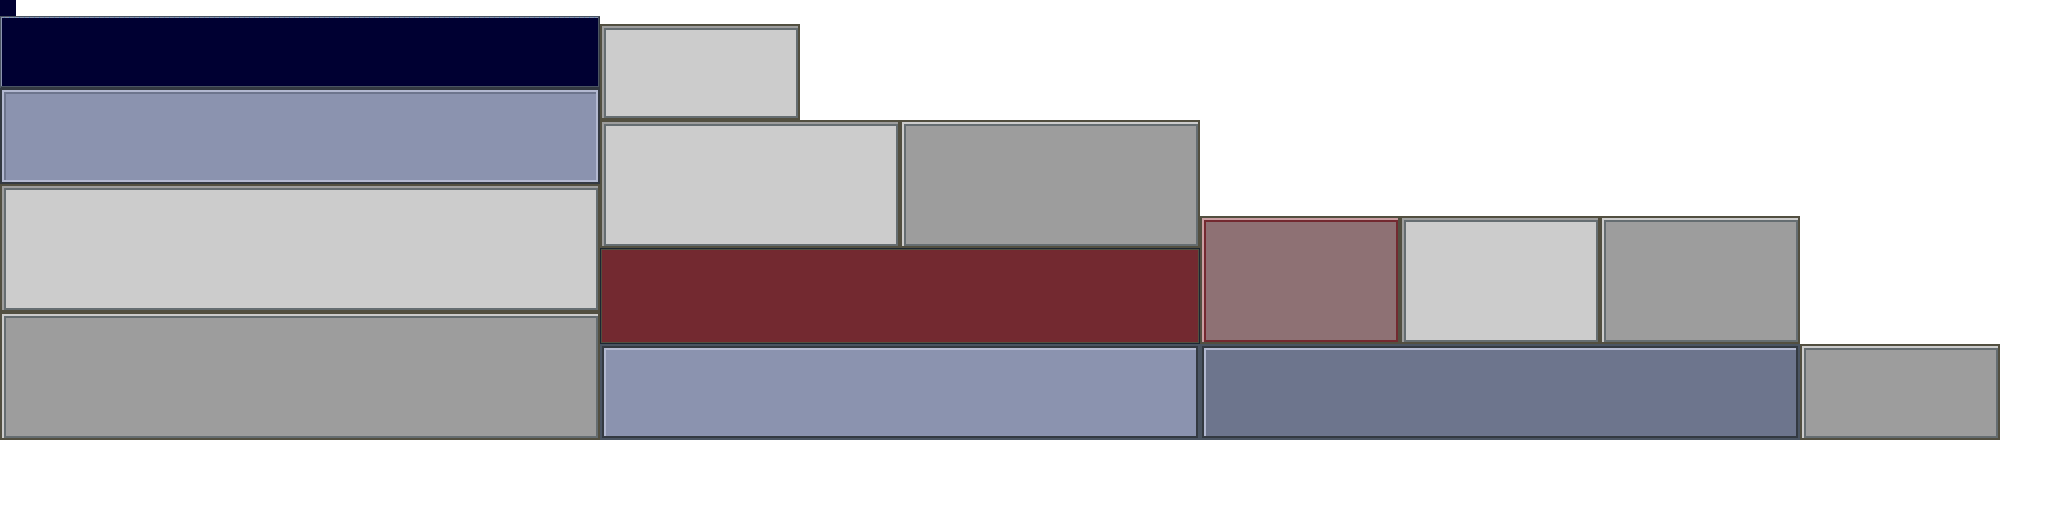
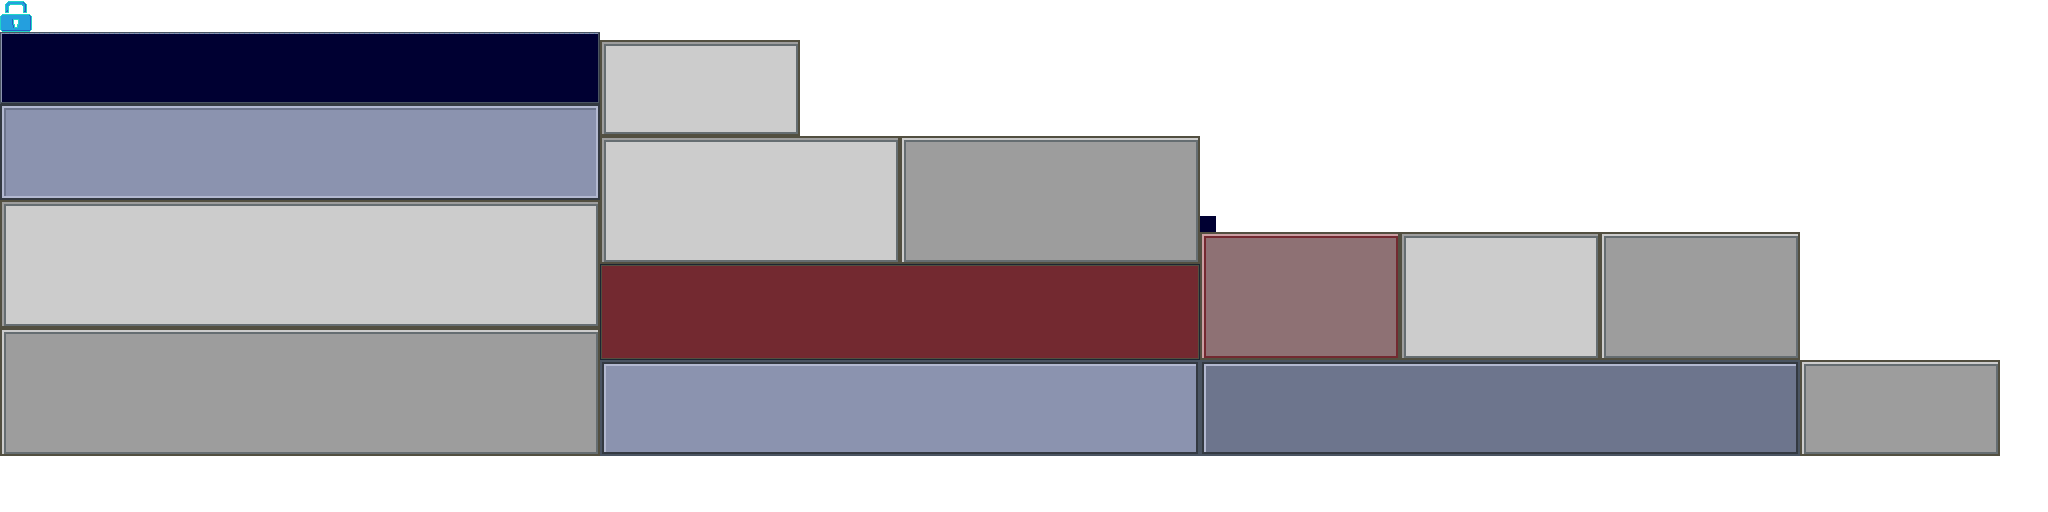
Sabacc Shifts, and Interference field for the human player

diff --git a/core/src/com/sabacc/GameScreen.java b/core/src/com/sabacc/GameScreen.java
@@ -38,6 +38,7 @@ public class GameScreen implements Screen {
         return players.get(currentPlayer);
     }
     public void nextPlayer() {
+        sabaccShift();  // Try for a shift after each player's action
         players.get(currentPlayer).updateButton(); // Update this players button
         currentPlayer = (currentPlayer + 1) % players.size;
         while (players.get(currentPlayer).folded)
@@ -70,6 +71,8 @@ public class GameScreen implements Screen {
 
     // The currently selected card, defaults to null
     private Card selected;
+    public Card doubleTap;      // The current card the player can double tap, if tapped again within a time frame it will
+                                // place the card into the interference field, otherwise gets set back to null
     final private int smallCardHeight;
     final private int smallCardWidth;
     final private int smallCardNum;     // how many small cards fit on the screen per row at once
@@ -114,6 +117,7 @@ public class GameScreen implements Screen {
     // The skin for different buttons
     final public Skin uiSkin;
     final private Drawable playerbox;
+    final private Drawable lock;
 
     // The starting x coordinate of where to draw the player's hand, to enable horizontal scrolling
     private int startOfHand;
@@ -159,6 +163,7 @@ public class GameScreen implements Screen {
         playerbox = uiSkin.getDrawable("player-box");
         selectCover = uiSkin.getDrawable("select-rect");
         background = uiSkin.getDrawable("background");
+        lock = uiSkin.getDrawable("lock");
 
         // Default small card size (for opponents) is 70x96 px
         smallCardWidth = 70;
@@ -269,16 +274,29 @@ public class GameScreen implements Screen {
     private void displayHand() {
         selectCover.draw(game.batch, 0, selectRect.y, 600, selectRect.height);
         background.draw(game.batch, 0, handRect.y, 600, handRect.height);
-
-        for (int i = 0; i < player.hand().size; i++) {
-            Card c = player.hand().get(i);
+        int i;
+        Card c;
+        for (i = 0; i < player.numCards(); i++) {
+            c = player.hand().get(i);
             c.image.draw(game.batch, i * 120 - startOfHand, handRect.y, 120, 172);
 
             // If the card is selected by the player, draw the selected border over it
             if (c == selected)
                 deck.selected().draw(game.batch, i * 120 - startOfHand, handRect.y, 120, 172);
         }
-        if (player.numCards() > 0)
+        for (int j = 0; j < player.numField(); j++) {
+            c = player.field().get(j);
+            c.image.draw(game.batch, (i+j) * 120 - startOfHand, handRect.y, 120, 172);
+
+            // If the card is selected by the player, draw the selected border over it
+            if (c == selected)
+                deck.selected().draw(game.batch, (i+j) * 120 - startOfHand, handRect.y, 120, 172);
+
+            // Draw the lock icon to show that this card is in the interference field
+            lock.draw(game.batch, (i+j+1) * 120 - startOfHand - 48, handRect.y + handRect.height - 48, 32, 32);
+        }
+
+        if (player.numCards() + player.numField() > 0)
             game.font24.draw(game.batch, "Value: " + player.score(), 16, selectRect.y + 32);
 
         // Write the name of the currently selected card above the players hand value
@@ -337,6 +355,7 @@ public class GameScreen implements Screen {
         for (Player p : players) {
             p.refreshScore();
             p.hand().clear();
+            p.field().clear();
         }
         drawingStage.resetUntilCall();
         bettingStage.resetBettingRound();
@@ -385,6 +404,32 @@ public class GameScreen implements Screen {
             }
             p.updateButton();
         }
+    }
+
+    /**
+     * Randomly determines if a Sabacc Shift should happen. A chance after each player makes
+     * a move
+     * Replaces the current deck with a new deck, for each player they replace each card in their
+     * hand with new cards. Cards in their Interference Field are not affected
+     */
+    public void sabaccShift() {
+        if (Math.random() > game.shiftChance)
+            return;
+        addMessage("A Sabacc Shift has occurred!!");
+        deck.refreshDeck();
+        for (Player p : players)
+            p.sabaccShift(deck);
+    }
+
+    /**
+     * Removes the card from the players hand and adds it to their interference field, to
+     * be protected from Sabacc Shifts but know to other players
+     * @param p the player
+     * @param c the card in their hand
+     */
+    public void fieldCard(Player p, Card c) {
+        addMessage(p.name() + " places " + c.name + " into the Interference Field");
+        p.fieldCard(c);
     }
 
     @Override
@@ -441,9 +486,24 @@ public class GameScreen implements Screen {
                 else if (inputTouch.y > handRect.y) {
                     currentRect = handRect;
                     int i = (int) ((inputTouch.x + startOfHand) / 120);
-                    if (i < player.numCards()) {
-                        selected = player.hand().get(i);
-                        return true;
+                    if (i < player.numCards() + player.numField()) {
+                        if (i < player.numCards()) {
+                            selected = player.hand().get(i);
+                            if (selected == doubleTap) {
+                                // If the player double taps a card, field it
+                                fieldCard(player, doubleTap);
+                                doubleTap = null;
+                            } else {
+                                // Otherwise, start a new timer to see if they double tap another card
+                                doubleTap = selected;
+                                timer.timeDoubleTap(doubleTap, game.timeForDoubleTap);
+                            }
+                            return true;
+                        }
+                        else {
+                            selected = player.field().get(i - player.numCards());
+                            return true;
+                        }
                     }
                 }
                 return false;
@@ -465,7 +525,7 @@ public class GameScreen implements Screen {
 
                 if (currentRect == handRect) {
                     // Allow the player to scroll their hand left or right if they have too many cards
-                    leftmost = Math.max(0, (player.numCards() - 5) * 120);
+                    leftmost = Math.max(0, (player.numCards() + player.numField() - 5) * 120);
                     startOfHand += (int)(startX - inputTouch.x);
                     if (startOfHand > leftmost)
                         startOfHand = leftmost;

diff --git a/core/src/com/sabacc/Player.java b/core/src/com/sabacc/Player.java
@@ -31,6 +31,15 @@ public class Player {
     public Array<Card> hand() { return hand; }
     public int numCards() { return hand.size; }
 
+    // Handling the Interference Field
+    private final Array<Card> field;
+    public Array<Card> field() { return field; }
+    public void fieldCard(Card c) {
+        if (hand.removeValue(c, true))
+            field.add(c);
+    }
+    public int numField() { return field.size; }
+
     // The current score
     private int score;
     public int score() { return score; }
@@ -50,6 +59,22 @@ public class Player {
         hand.add(c);
     }
 
+    /**
+     * A helper function to implement a sabacc shift for this one player, replaces all the cards
+     * in their hand with a new card from the deck
+     * @param deck the deck to draw from
+     */
+    public void sabaccShift(Deck deck) {
+        int n = numCards();
+        for (Card c : hand)
+            score -= c.value;
+        hand.clear();
+        while (n > 0) {
+            n--;
+            addCard(deck.drawCard());
+        }
+    }
+
     // Some variables for each game round
     public int currentBid;
     public boolean hasBet;   // To check if the player has matched the current bet
@@ -65,6 +90,7 @@ public class Player {
         this.name = name;
         this.credits = credits;
         hand = new Array<Card>();
+        field = new Array<Card>();
     }
 
     /**

diff --git a/core/src/com/sabacc/Sabacc.java b/core/src/com/sabacc/Sabacc.java
@@ -39,6 +39,8 @@ public class Sabacc extends Game {
 	public int ante;
 	public Color backgroundColour;
 	public boolean autoDisplayAndHide;	// Automatically open and close opponents at the end and start of rounds
+	public float shiftChance;
+	public float timeForDoubleTap;	// How long the player has between taps to double click a card to move it to the interference field
 	
 	@Override
 	public void create () {
@@ -63,6 +65,8 @@ public class Sabacc extends Game {
 		ante = 20;
 		backgroundColour = new Color(0,0,0.2f,1);
 		autoDisplayAndHide = true;
+		shiftChance = 0.05f;	// 5% chance for a sabacc shift after every player takes a turn, should happen around once, twice is not uncommon, thrice is rare
+		timeForDoubleTap = 0.5f;	// half a second
 
 		// Make the graphics non-continuous, to save battery
 		Gdx.graphics.setContinuousRendering(false);

diff --git a/core/src/com/sabacc/SabaccTimer.java b/core/src/com/sabacc/SabaccTimer.java
@@ -28,4 +28,20 @@ public class SabaccTimer {
         };
         Timer.instance().scheduleTask(task, delay);
     }
+
+    /**
+     *
+     */
+    public void timeDoubleTap(final Card c, float delay) {
+        task = new Timer.Task() {
+            @Override
+            public void run() {
+                // If the timer runs out and we are still waiting for the same double tap, set it to null
+                if (c == screen.doubleTap)
+                    screen.doubleTap = null;
+                // Otherwise, ignore this
+            }
+        };
+        Timer.instance().scheduleTask(task, delay);
+    }
 }

diff --git a/README.md b/README.md
@@ -52,15 +52,11 @@ In the event that multiple players have the same winning hand, a Sudden Demise i
 
 **Sabacc Shift**
 
-At any point after a drawing or betting round, a Sabacc shift may happen. This random event redistributes the values of all cards in each players hand. The only way to prevent this is to place a card into the Interference Field at any time during their turn. The tradeoff of cards in the field being unable to be shifted is that the value is known to all other players.
+At any point after a player draws or bets, a Sabacc shift may happen. This random event redistributes the values of all cards in each players hand. The only way to prevent this is to place a card into the Interference Field at any time during their turn. The tradeoff of cards in the field being unable to be shifted is that the value is known to all other players.
 
 **Unimplemented Features**
 
 As of now, Sudden Demise only happens exactly once per "hand value". So if a Sudden Demise happens and there are multiple players with the same score, the first one will get the win. This seems exceedingly unlikely in practice.
-
-Sabacc Shifts have also not been implemented.
-
-Opponents are sort of capped based on your screen dimensions. I will be fixing this in the future with general UI updates to let you scroll through up to 7 opponents (more will be able to be enabled through the settings) along with toggling them to view their cards and stuff like that. Also generating names.
 
 **Known Bugs**
 
@@ -70,22 +66,22 @@ Things get a little weird sometimes once the player drops from the game. There m
 
 **Current Roadmap**
 
- - Implement the Sabacc Shift and the Interference Field. A player can place cards into the field by clicking a card and then clicking the field. Opponent's interference cards have a blue border and are displayed underneath their hand (so clicking their tab will have multiple rows of cards).
+ - Implement the Sabacc Shift and the Interference Field. A player can place cards into the field by double clicking a card (to lock it) and a small icon will be displayed on it. Opponent's interference cards have a blue border and are displayed underneath their hand (so clicking their tab will have multiple rows of cards).
+
+ - Large AI update once everything is implemented to tie it all together and make the game actually playable
 
 **Stuff that can be done at any time**
  (In no particular order)
 
- - AI Updates (always)
+ - Different message colours along with minor updates to buttons and stuff
 
- - Different message colours
+    - Allow messages to be longer than the screen and wrap around to new lines. Also allow the player to scroll through previous messages efficiently
 
- - A main menu and settings screen
+ - A main menu that leads to new game, settings, and rules screens
 
  - Add a delay between dealing cards when enacting Sudden Demise
 
  - Player profiles, to save and load your profile and have different games. Can add new AI's that play differently and have higher stakes tables with steeper buy in prices and antes.
-
- - Main menu and settings
 
  - Clicking an opponents card tells you what card it is, probably to be done in the UI update. This might be moderately difficult.
 
